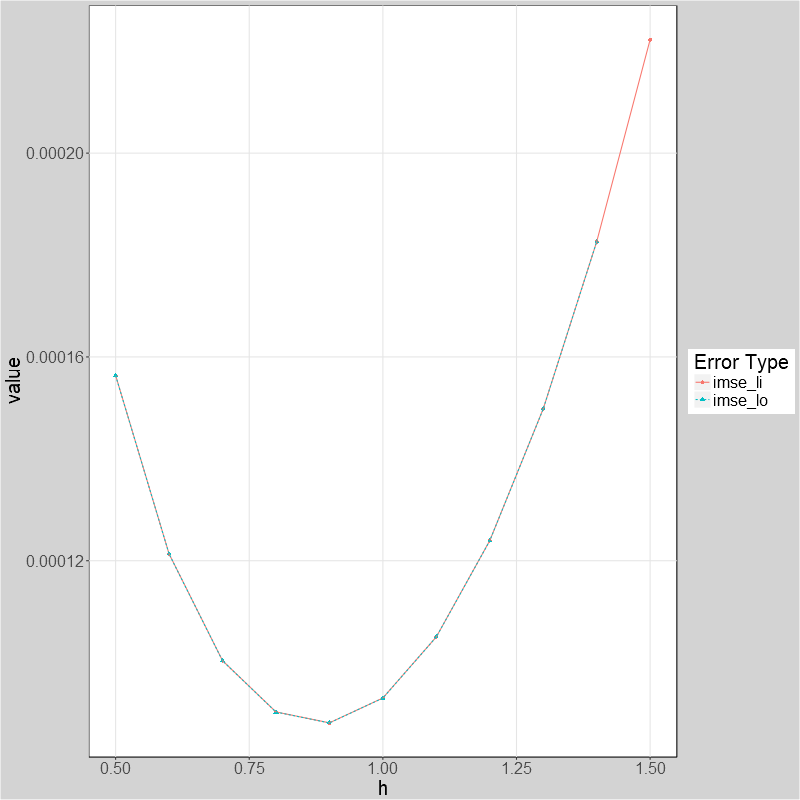
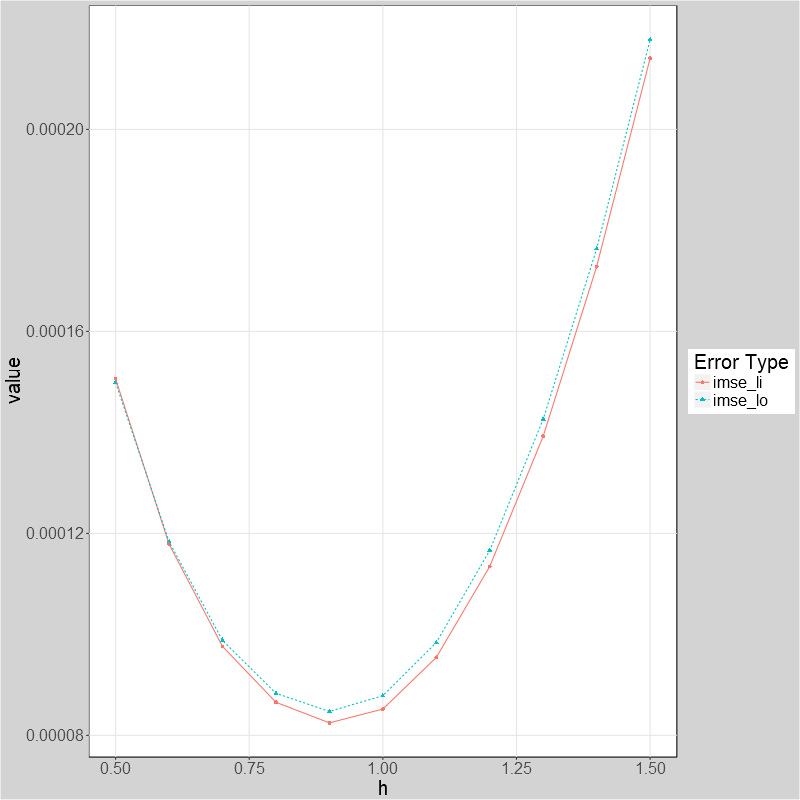
almost done with R
Still have to do ther derivative part in 2 and the last part of 3

diff --git a/econ 675/PS_2_tex/Q3_4_b.tex b/econ 675/PS_2_tex/Q3_4_b.tex
@@ -1,22 +1,22 @@
 % latex table generated in R 3.3.2 by xtable 1.8-2 package
-% Thu Oct 11 23:41:17 2018
+% Fri Oct 12 01:01:02 2018
 \begin{tabular}{rrrrrr}
   \hline
 K & Theta & Bias & S.D & V\_HCO & Rejection rate \\ 
   \hline
-6.000 & 1.988 & 0.428 & 4.135 & 0.551 & 1.000 \\ 
-  11.000 & -0.388 & 0.249 & 0.212 & 0.280 & 0.300 \\ 
-  21.000 & -0.403 & 0.263 & 0.232 & 0.284 & 0.300 \\ 
-  26.000 & -0.387 & 0.262 & 0.219 & 0.284 & 0.300 \\ 
-  56.000 & -0.319 & 0.304 & 0.194 & 0.278 & 0.200 \\ 
-  61.000 & -0.320 & 0.314 & 0.201 & 0.265 & 0.300 \\ 
-  126.000 & -0.016 & 0.090 & 0.008 & 0.139 & 0.000 \\ 
-  131.000 & -0.021 & 0.085 & 0.008 & 0.138 & 0.000 \\ 
-  252.000 & -0.080 & 0.146 & 0.028 & 0.128 & 0.200 \\ 
-  257.000 & -0.076 & 0.139 & 0.025 & 0.128 & 0.200 \\ 
-  262.000 & -0.085 & 0.134 & 0.025 & 0.128 & 0.200 \\ 
-  267.000 & -0.101 & 0.142 & 0.030 & 0.129 & 0.200 \\ 
-  272.000 & -0.112 & 0.133 & 0.030 & 0.129 & 0.200 \\ 
-  277.000 & -0.115 & 0.137 & 0.032 & 0.130 & 0.200 \\ 
+6.000 & 1.793 & 0.475 & 3.440 & 0.453 & 0.900 \\ 
+  11.000 & -0.174 & 0.314 & 0.129 & 0.203 & 0.200 \\ 
+  21.000 & -0.176 & 0.321 & 0.134 & 0.199 & 0.200 \\ 
+  26.000 & -0.192 & 0.309 & 0.132 & 0.201 & 0.200 \\ 
+  56.000 & -0.153 & 0.357 & 0.151 & 0.197 & 0.300 \\ 
+  61.000 & -0.133 & 0.333 & 0.128 & 0.191 & 0.300 \\ 
+  126.000 & 0.030 & 0.086 & 0.008 & 0.099 & 0.100 \\ 
+  131.000 & 0.029 & 0.085 & 0.008 & 0.099 & 0.100 \\ 
+  252.000 & -0.042 & 0.108 & 0.013 & 0.093 & 0.000 \\ 
+  257.000 & -0.054 & 0.111 & 0.015 & 0.093 & 0.100 \\ 
+  262.000 & -0.062 & 0.123 & 0.019 & 0.094 & 0.300 \\ 
+  267.000 & -0.069 & 0.124 & 0.020 & 0.094 & 0.400 \\ 
+  272.000 & -0.078 & 0.126 & 0.022 & 0.093 & 0.300 \\ 
+  277.000 & -0.074 & 0.127 & 0.022 & 0.093 & 0.400 \\ 
    \hline
 \end{tabular}

diff --git a/econ 675/PS_2_tex/Q1_p3_b.tex b/econ 675/PS_2_tex/Q1_p3_b.tex
@@ -1,19 +1,19 @@
 % latex table generated in R 3.3.2 by xtable 1.8-2 package
-% Thu Oct 11 10:21:32 2018
+% Fri Oct 12 00:55:56 2018
 \begin{tabular}{llll}
   \hline
 h & imse\_li & imse\_lo & d\_h\_hat \\ 
   \hline
-0.5 & 0.000156 & 0.000156 & 1.04 \\ 
-  0.6 & 0.000121 & 0.000121 & 1.04 \\ 
-  0.7 & 0.0001 & 0.0001 & 1.04 \\ 
-  0.8 & 0.0000903 & 0.0000903 & 1.04 \\ 
-  0.9 & 0.0000882 & 0.0000882 & 1.04 \\ 
-  1 & 0.0000931 & 0.0000931 & 1.04 \\ 
-  1.1 & 0.000105 & 0.000105 & 1.04 \\ 
-  1.2 & 0.000124 & 0.000124 & 1.04 \\ 
-  1.3 & 0.00015 & 0.00015 & 1.04 \\ 
-  1.4 & 0.000183 & 0.000183 & 1.04 \\ 
-  1.5 & 0.000222 & 0.000222 & 1.04 \\ 
+0.5 & 0.000151 & 0.00015 & 1.05 \\ 
+  0.6 & 0.000118 & 0.000118 & 1.05 \\ 
+  0.7 & 0.0000976 & 0.0000988 & 1.05 \\ 
+  0.8 & 0.0000865 & 0.0000883 & 1.05 \\ 
+  0.9 & 0.0000825 & 0.0000847 & 1.05 \\ 
+  1 & 0.0000852 & 0.0000879 & 1.05 \\ 
+  1.1 & 0.0000954 & 0.0000984 & 1.05 \\ 
+  1.2 & 0.000113 & 0.000117 & 1.05 \\ 
+  1.3 & 0.000139 & 0.000143 & 1.05 \\ 
+  1.4 & 0.000173 & 0.000176 & 1.05 \\ 
+  1.5 & 0.000214 & 0.000218 & 1.05 \\ 
    \hline
 \end{tabular}
